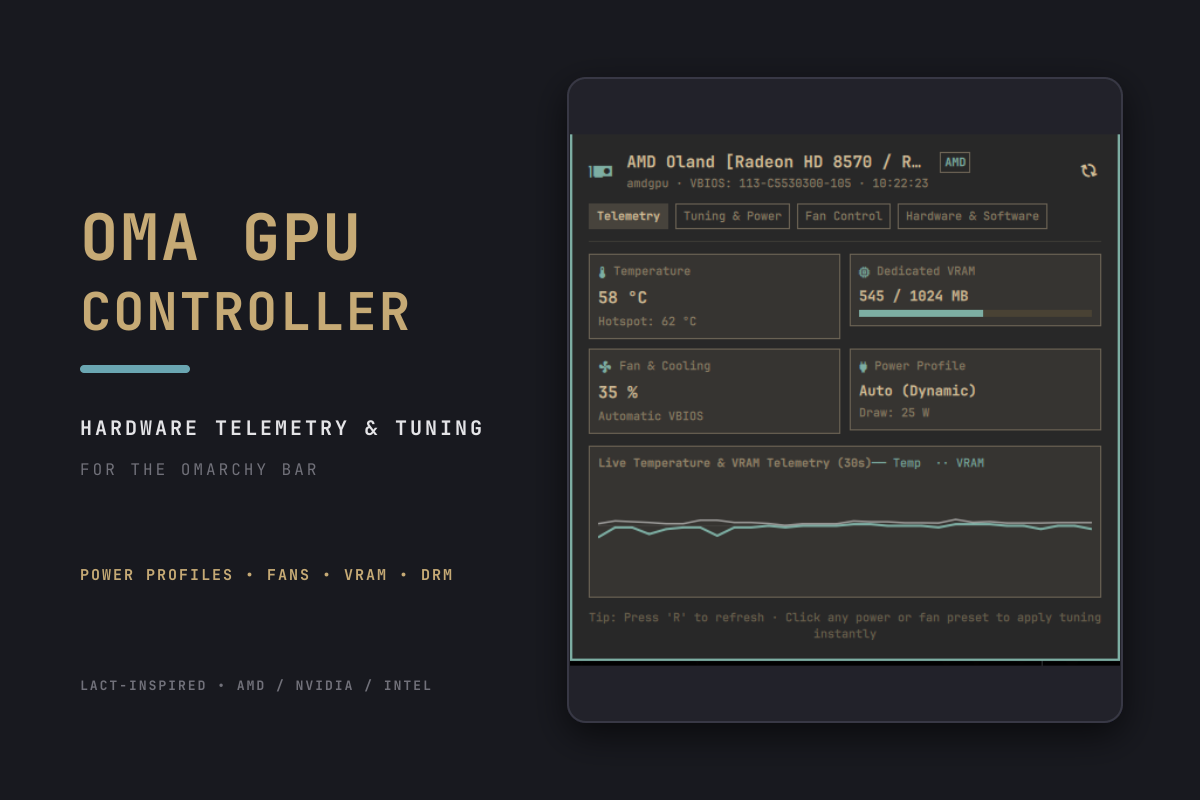
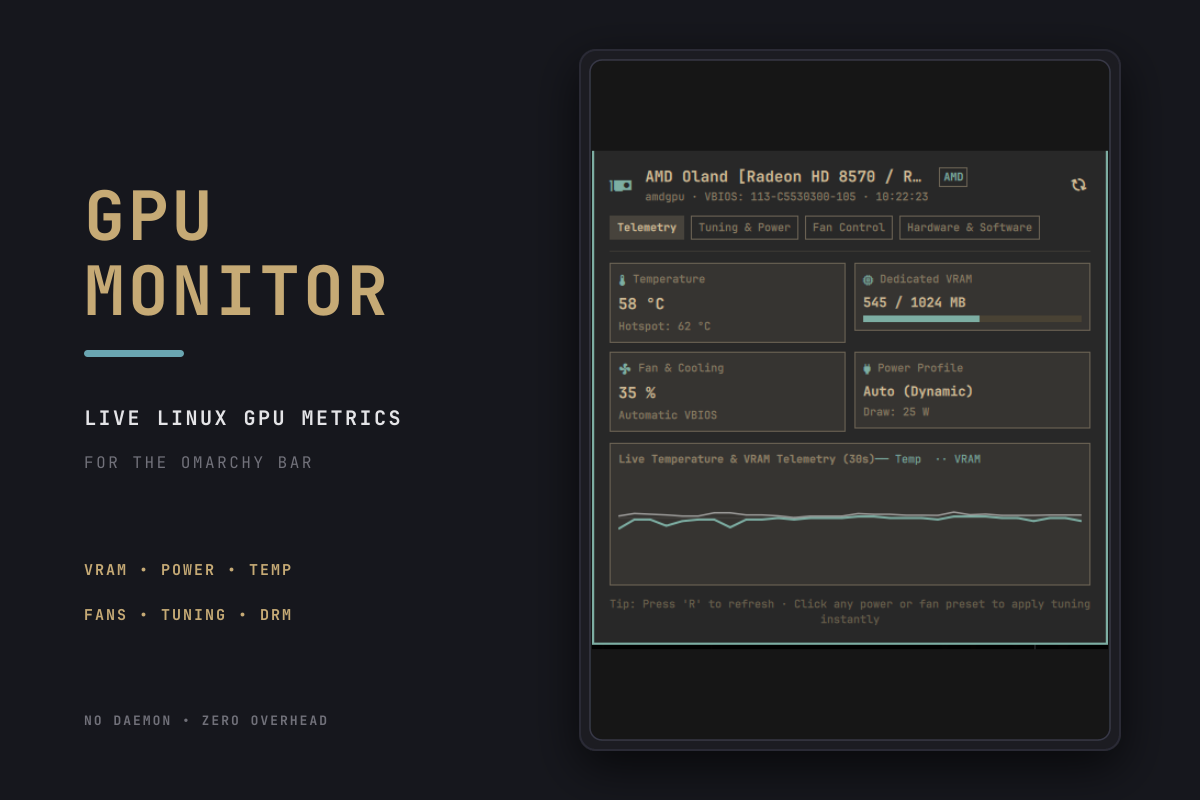
docs: finalize 1200x800 preview card and comprehensive hardware documentation

diff --git a/README.md b/README.md
@@ -30,6 +30,14 @@ An advanced hardware telemetry monitor, power governor tuner, fan controller, an
   <img src="screenshots/hardware.png" alt="OmaGPU Hardware & Process Clients" width="280">
 </p>
 
+## Multi-Vendor Hardware Support
+
+| Vendor | Driver / Interface | Telemetry & Controls Supported |
+| :--- | :--- | :--- |
+| **AMD** | `amdgpu` (DRM sysfs & hwmon) | GPU %, VRAM / GTT, Core & Hotspot Temp, Fan PWM, DPM Power States, Power Cap. |
+| **NVIDIA** | `nvidia` (NVML / nvidia-smi) | GPU %, VRAM, Core & Hotspot Temp, Fan Speed, Power Draw (Watts), Clock Frequencies. |
+| **Intel** | `i915` / `xe` (DRM sysfs) | Frequency Scaling (RP0/RPe/RPn), RC6 Power States, Package Temp, Arc Dedicated/Shared VRAM. |
+
 ## Install
 
 OmaGPU requires Omarchy with shell plugin support.
@@ -76,6 +84,16 @@ omarchy restart shell
 | **Low Power / Silent** | `low` | Locks clocks to lowest P-states for silent fan operation and battery saving. |
 | **Peak Profile** | `profile_peak` | Forces highest power envelope for compute and heavy rendering. |
 
+## Optional: Instant Passwordless Tuning (Udev Rule)
+
+By default, applying fan and power governor overrides invokes `pkexec` for secure authentication. If you want instant one-click tuning without password prompts, apply this standard rule:
+
+```bash
+echo 'SUBSYSTEM=="drm", KERNEL=="card*", ACTION=="add", RUN+="/bin/chmod a+w /sys/class/drm/%k/device/power_dpm_force_performance_level"' | sudo tee /etc/udev/rules.d/99-gpu-tuning.rules
+echo 'SUBSYSTEM=="hwmon", ACTION=="add", RUN+="/bin/chmod a+w /sys/class/hwmon/%k/pwm1 /sys/class/hwmon/%k/pwm1_enable"' | sudo tee -a /etc/udev/rules.d/99-gpu-tuning.rules
+sudo udevadm control --reload-rules && sudo udevadm trigger
+```
+
 ## Update
 
 ```sh
@@ -93,6 +111,14 @@ Removing the plugin unregisters the widget from your bar and removes its checkou
 ## Privacy & Security
 
 All telemetry inspection stays 100% on-device. The plugin does not connect to external networks, collect credentials, or transmit telemetry. All UI text rendering explicitly enforces `textFormat: Text.PlainText` to prevent rich-text parsing.
+
+## Development
+
+Validate the plugin schema from a checkout:
+
+```sh
+omarchy plugin validate .
+```
 
 ## License
 
